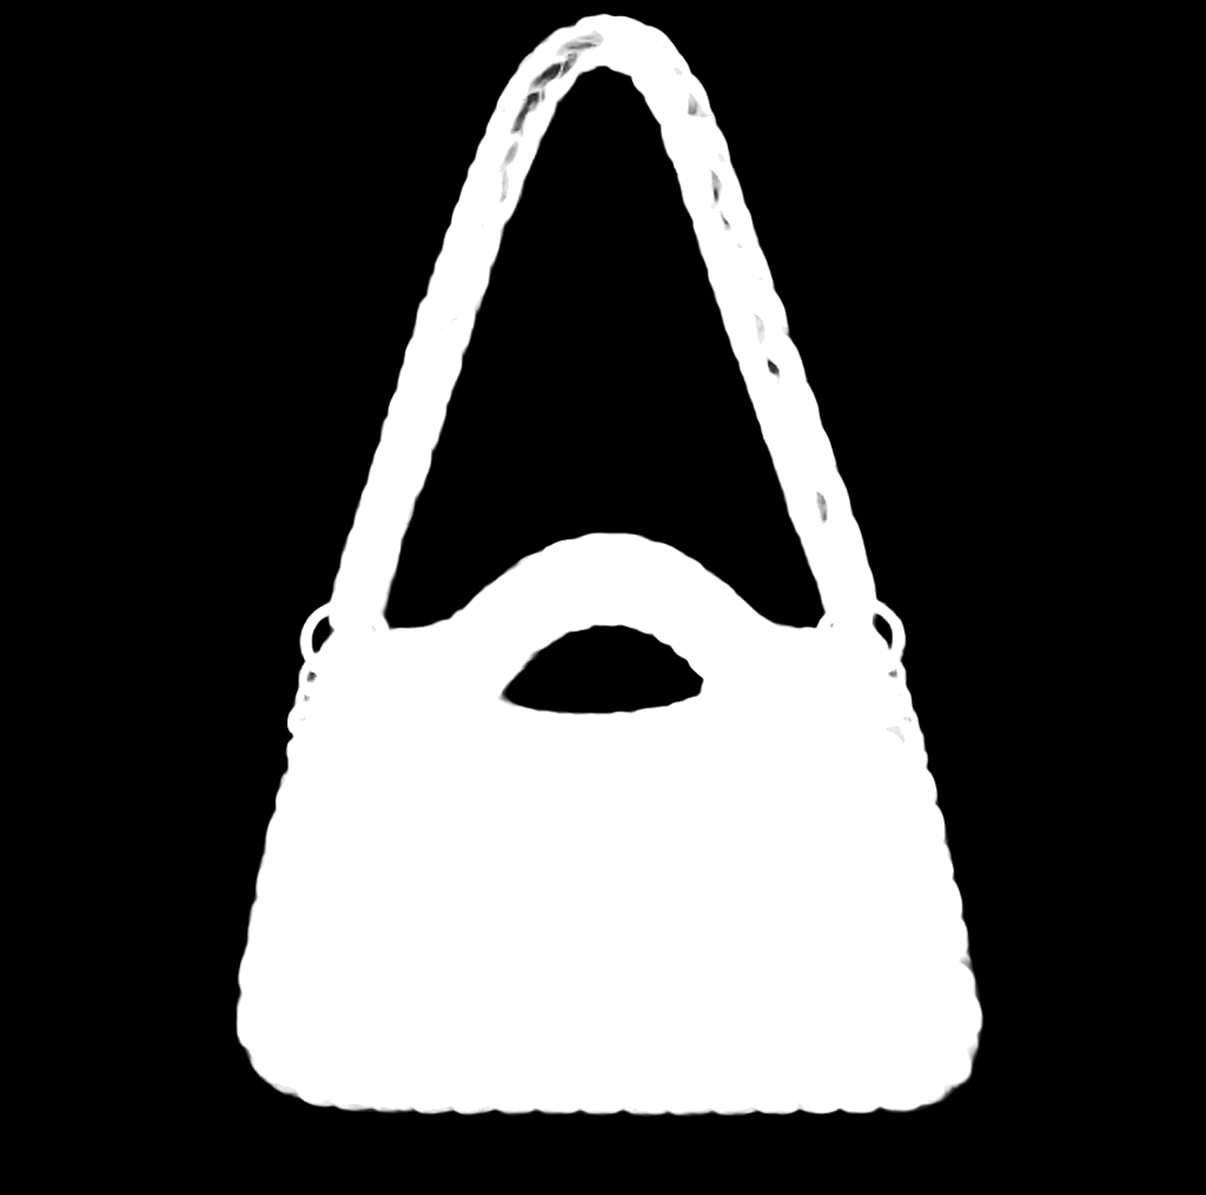
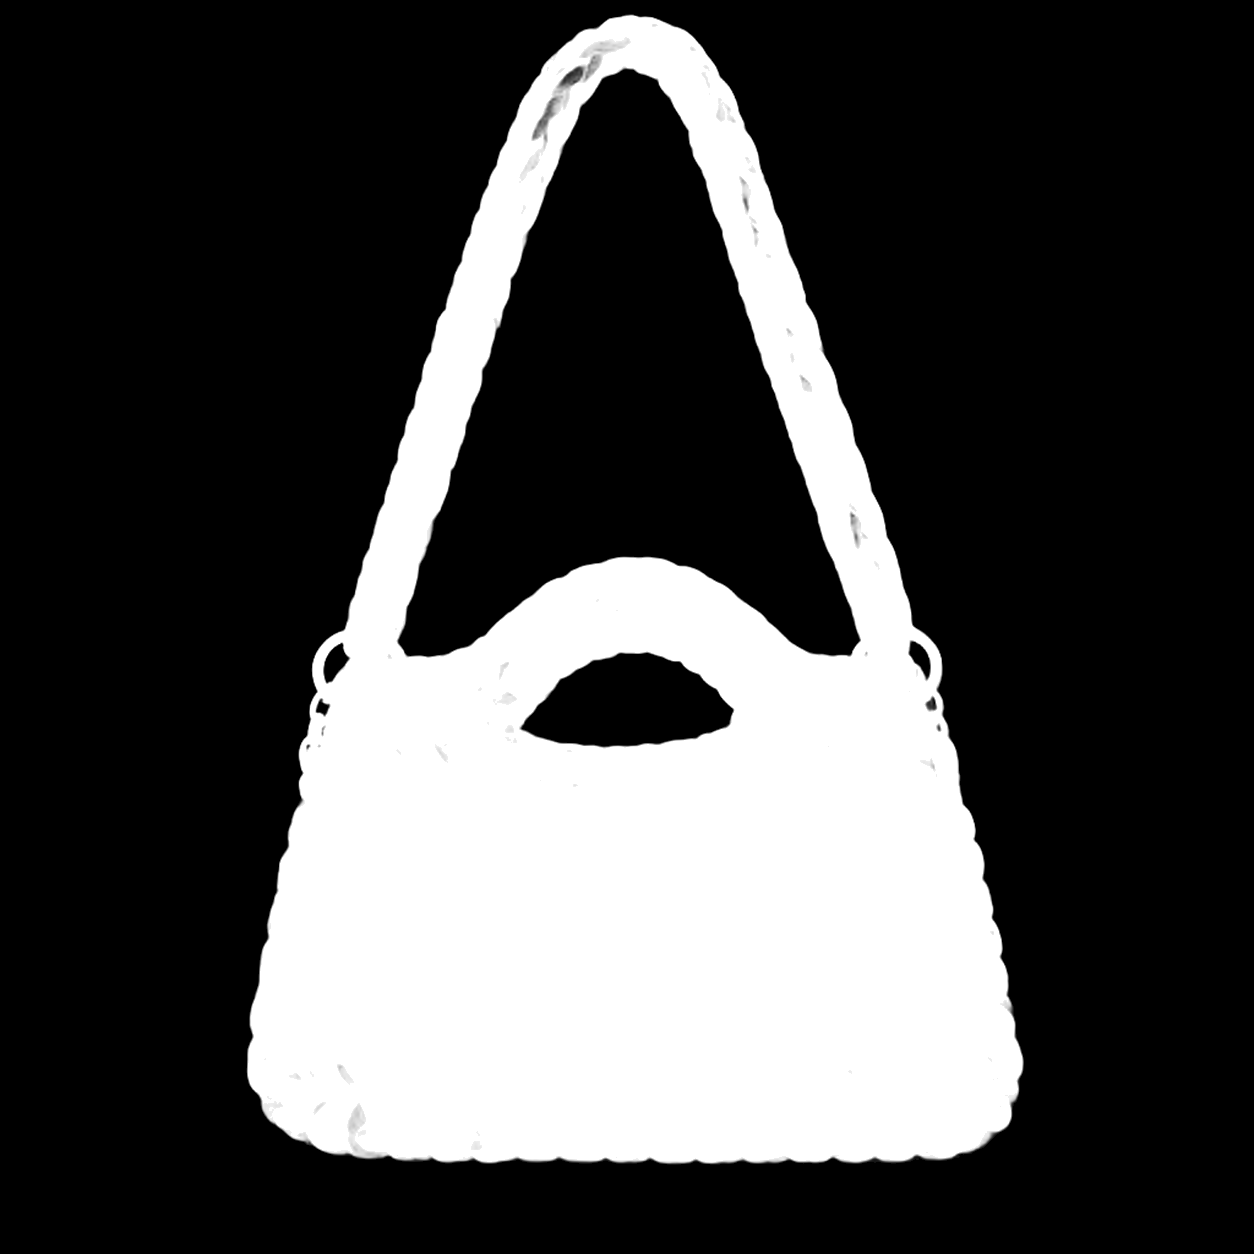
Ground original catalogue photos with contact shadows; unify conveyor backgrounds and RTL drawer; restore Corfu pearl chain

diff --git a/site/styles.css b/site/styles.css
@@ -277,7 +277,7 @@ html[dir=rtl] .faq-item p{margin-inline:auto;text-align:center}
 html[dir=rtl] .customizer-summary>div+div{border-left:0;border-right:1px solid rgba(255,255,255,.25);padding-left:0;padding-right:20px}
 html[dir=rtl] .model-options button{text-align:right}
 html[dir=rtl] .back-link{direction:rtl}
-html[dir=rtl] .mobile-menu{right:auto;left:0;transform:translateX(-104%);direction:rtl;text-align:right;box-shadow:24px 0 70px rgba(18,17,18,.2)}
+html[dir=rtl] .mobile-menu{right:0;left:auto;transform:translateX(104%);direction:rtl;text-align:right;box-shadow:-24px 0 70px rgba(18,17,18,.2)}
 html[dir=rtl] .mobile-menu[aria-hidden=false]{transform:translateX(0)}
 
 .language-page{min-height:100dvh;background:#e8a3b7}.language-choice{min-height:100dvh;display:grid;grid-template-rows:auto 1fr auto;gap:40px;padding:clamp(28px,6vw,80px)}
@@ -477,3 +477,8 @@ html[dir=rtl] .cart-totals dd{text-align:left}
 .customizer-visual{width:min(100%,480px);aspect-ratio:4/5;height:auto;justify-self:center;background:var(--custom-image-bg,#a7af6c)}
 .customizer-visual img{aspect-ratio:4/5;object-fit:contain}
 @media(max-width:700px){.customizer-visual{width:min(100%,300px);height:auto;aspect-ratio:4/5;max-height:none}}
+
+/* The photo and its card share one backdrop. Reserve label space without an inset frame. */
+.conveyor-image{padding:0;height:calc(100% - 64px)}
+.conveyor-card:hover .conveyor-image img,.conveyor-card:focus-visible .conveyor-image img{transform:none!important}
+@media(max-width:600px){.conveyor-image{padding:0;height:calc(100% - 58px)}}

diff --git a/site/app.js b/site/app.js
@@ -90,9 +90,9 @@ const HOME_LOCALE = {
 
 const productDesign = {
   rio: ['coral', '#fda476'], paris: ['berry', '#da9d9e'], monaco: ['mauve', '#c18a99'], miami: ['berry', '#ed93a4'],
-  bali: ['lime', '#a7af6c'], sahara: ['sand', '#a6795b'], tokyo: ['lime', '#a6d270'], madrid: ['red', '#bf1320'], ibiza: ['coral', '#fc9444'], porto: ['wine', '#9b1c34'],
-  maldives: ['sky', '#a9cdef'], corfu: ['sky', '#b4d8f5'], lisbon: ['sun', '#f8d063'], tulum: ['sand', '#d1b399'],
-  mykonos: ['stone', '#eee9e4'], milan: ['stone', '#f5f4f3'], venice: ['wine', '#8e1d2b'], dubai: ['charcoal', '#423d3c'], florence:['sand','#a57961'], marrakech:['gold','#bd9c54']
+  bali: ['lime', '#a7af6c'], sahara: ['sand', '#a6795b'], tokyo: ['lime', '#a6d270'], madrid: ['red', '#bf1320'], ibiza: ['coral', '#fda476'], porto: ['wine', '#8e1d2b'],
+  maldives: ['sky', '#a9cdef'], corfu: ['sky', '#a9cdef'], lisbon: ['sun', '#f8d063'], tulum: ['sand', '#d1b399'],
+  mykonos: ['stone', '#eee9e4'], milan: ['stone', '#eee9e4'], venice: ['wine', '#8e1d2b'], dubai: ['charcoal', '#423d3c'], florence:['sand','#a57961'], marrakech:['gold','#bd9c54']
 };
 
 const catalogOrder = ['marrakech','rio','ibiza','porto','florence','paris','miami','monaco','madrid','venice','dubai','sahara','tulum','mykonos','milan','lisbon','bali','tokyo','corfu','maldives'];
